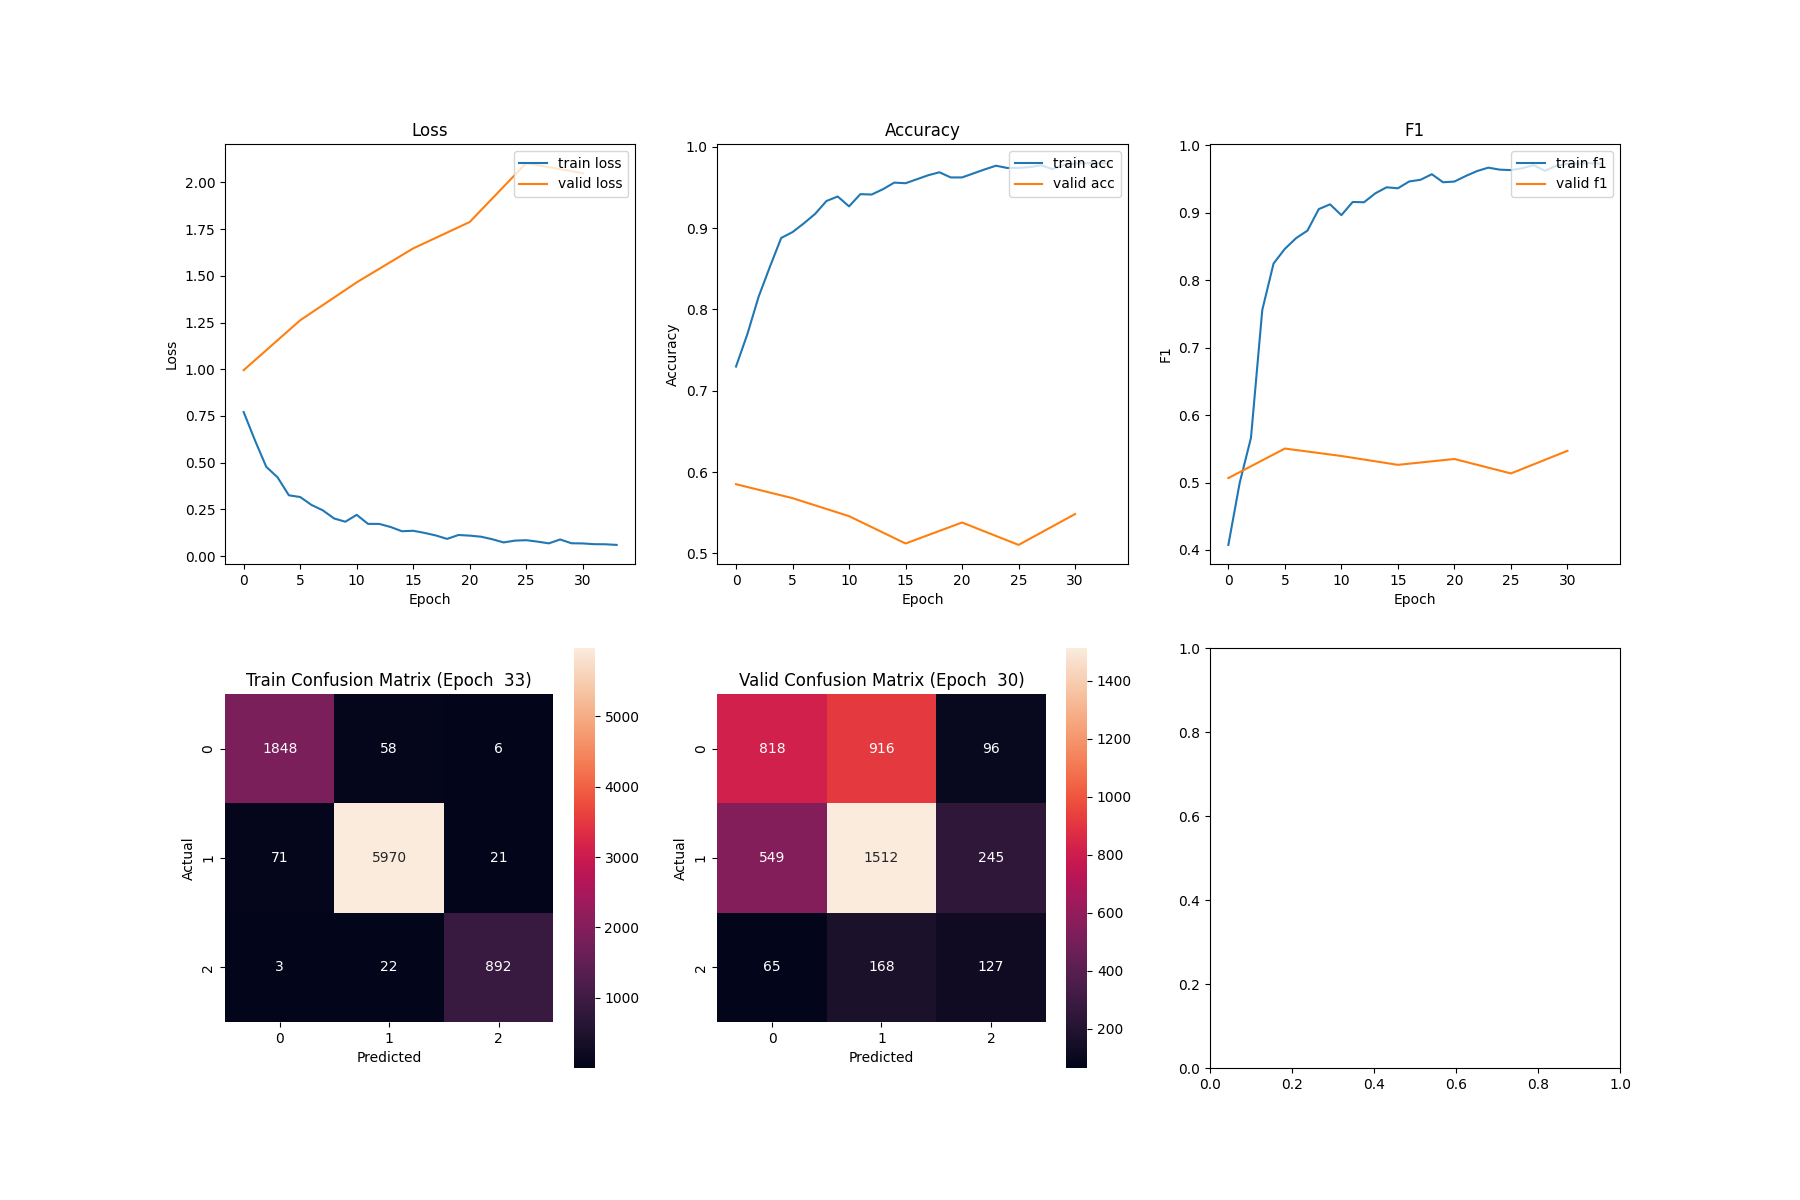
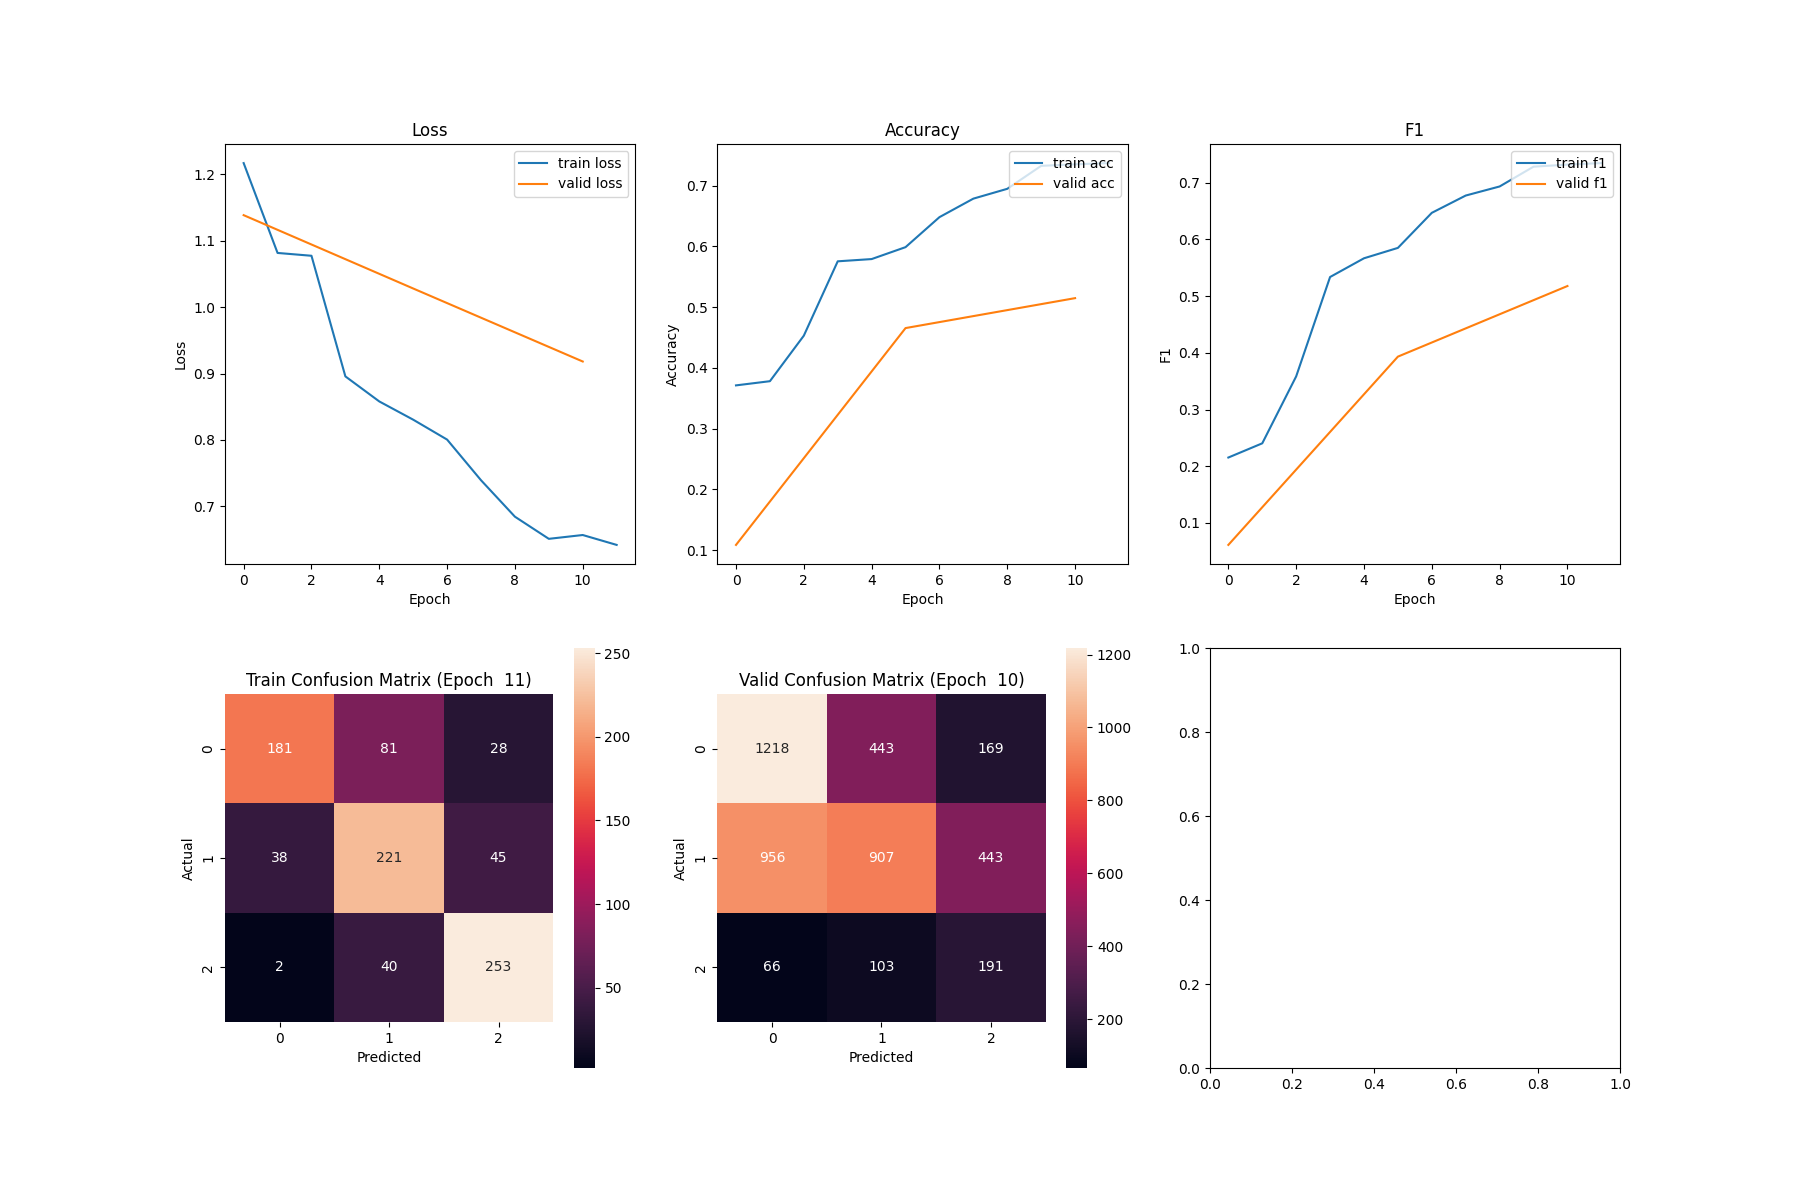
fix balancer

diff --git a/main.py b/main.py
@@ -5,18 +5,16 @@ import numpy as np
 import matplotlib.pyplot as plt
 import seaborn as sns
 
-from torch.utils.data import WeightedRandomSampler
-from torch_geometric.loader import DataLoader
+from torch_geometric.loader import DataLoader, ImbalancedSampler
 
 from sklearn.metrics import (
     f1_score,
     accuracy_score,
     confusion_matrix
 )
-from src.data.utils import read_tsv
 
 from src.features.dataset import DepressionDataset
-from src.models.GCN import GCN
+from src.models.GAT import GAT
 
 
 batch_size = 128
@@ -32,23 +30,9 @@ if __name__ == '__main__':
         train_set.process()
         valid_set.process()
 
-    # Get class weights
-    print("Getting class weights...", end=' ')
-    label_to_class = {"not depression": 0, "moderate": 1, "severe": 2}
-    labels = read_tsv('data/silver/train.tsv')["label"].apply(lambda x: label_to_class[x]).values
-    class_weights = 1 - np.bincount(labels) / len(labels)
-    class_weights = class_weights / class_weights.sum()
-    print(class_weights)
-    sample_weights = class_weights[labels]
-    sample_weights = torch.FloatTensor(sample_weights).to(device)
-
     # Get sampler
     print("Getting sampler...")
-    sampler = WeightedRandomSampler(
-        weights=sample_weights,
-        num_samples=len(sample_weights),
-        replacement=True
-    )
+    sampler = ImbalancedSampler(train_set, num_samples=len(train_set) // 10)
 
     # Get loaders
     print("Getting loaders...")
@@ -57,13 +41,14 @@ if __name__ == '__main__':
 
     # Get model
     print("Getting model...")
-    model = GCN(
+    model = GAT(
         feature_size=train_set[0].x.shape[1], # 300 or 768
         model_params={
             "model_layers": 3,
-            "model_dense_neurons": 100,
-            "model_embedding_size": 64,
+            "model_dense_neurons": 64,
+            "model_embedding_size": 128,
             "model_num_classes": 3,
+            "model_dropout": 0.5
         }
     ).to(device)
 
@@ -111,7 +96,11 @@ if __name__ == '__main__':
             step_loss += loss.item()
             step_acc += acc
             step_f1 += f1
-            step_cm = confusion_matrix(batch.y.cpu(), pred.cpu()) if step_cm is None else step_cm + confusion_matrix(batch.y.cpu(), pred.cpu())
+            batch_cm = confusion_matrix(batch.y.cpu(), pred.cpu())
+            if step_cm is None:
+                step_cm = batch_cm
+            else:
+                step_cm += batch_cm
 
         step_loss /= len(train_loader)
         step_acc /= len(train_loader)
@@ -142,12 +131,16 @@ if __name__ == '__main__':
 
                     pred = out.argmax(dim=1)
                     acc = accuracy_score(batch.y.cpu(), pred.cpu())
-                    f1 = f1_score(batch.y.cpu(), pred.cpu(), average='weighted')
+                    f1 = f1_score(batch.y.cpu(), pred.cpu(), average='macro')
 
                     step_loss += loss.item()
                     step_acc += acc
                     step_f1 += f1
-                    step_cm = confusion_matrix(batch.y.cpu(), pred.cpu()) if step_cm is None else step_cm + confusion_matrix(batch.y.cpu(), pred.cpu())
+                    batch_cm = confusion_matrix(batch.y.cpu(), pred.cpu())
+                    if step_cm is None:
+                        step_cm = batch_cm
+                    else:
+                        step_cm += batch_cm
 
             step_loss /= len(valid_loader)
             step_acc /= len(valid_loader)
